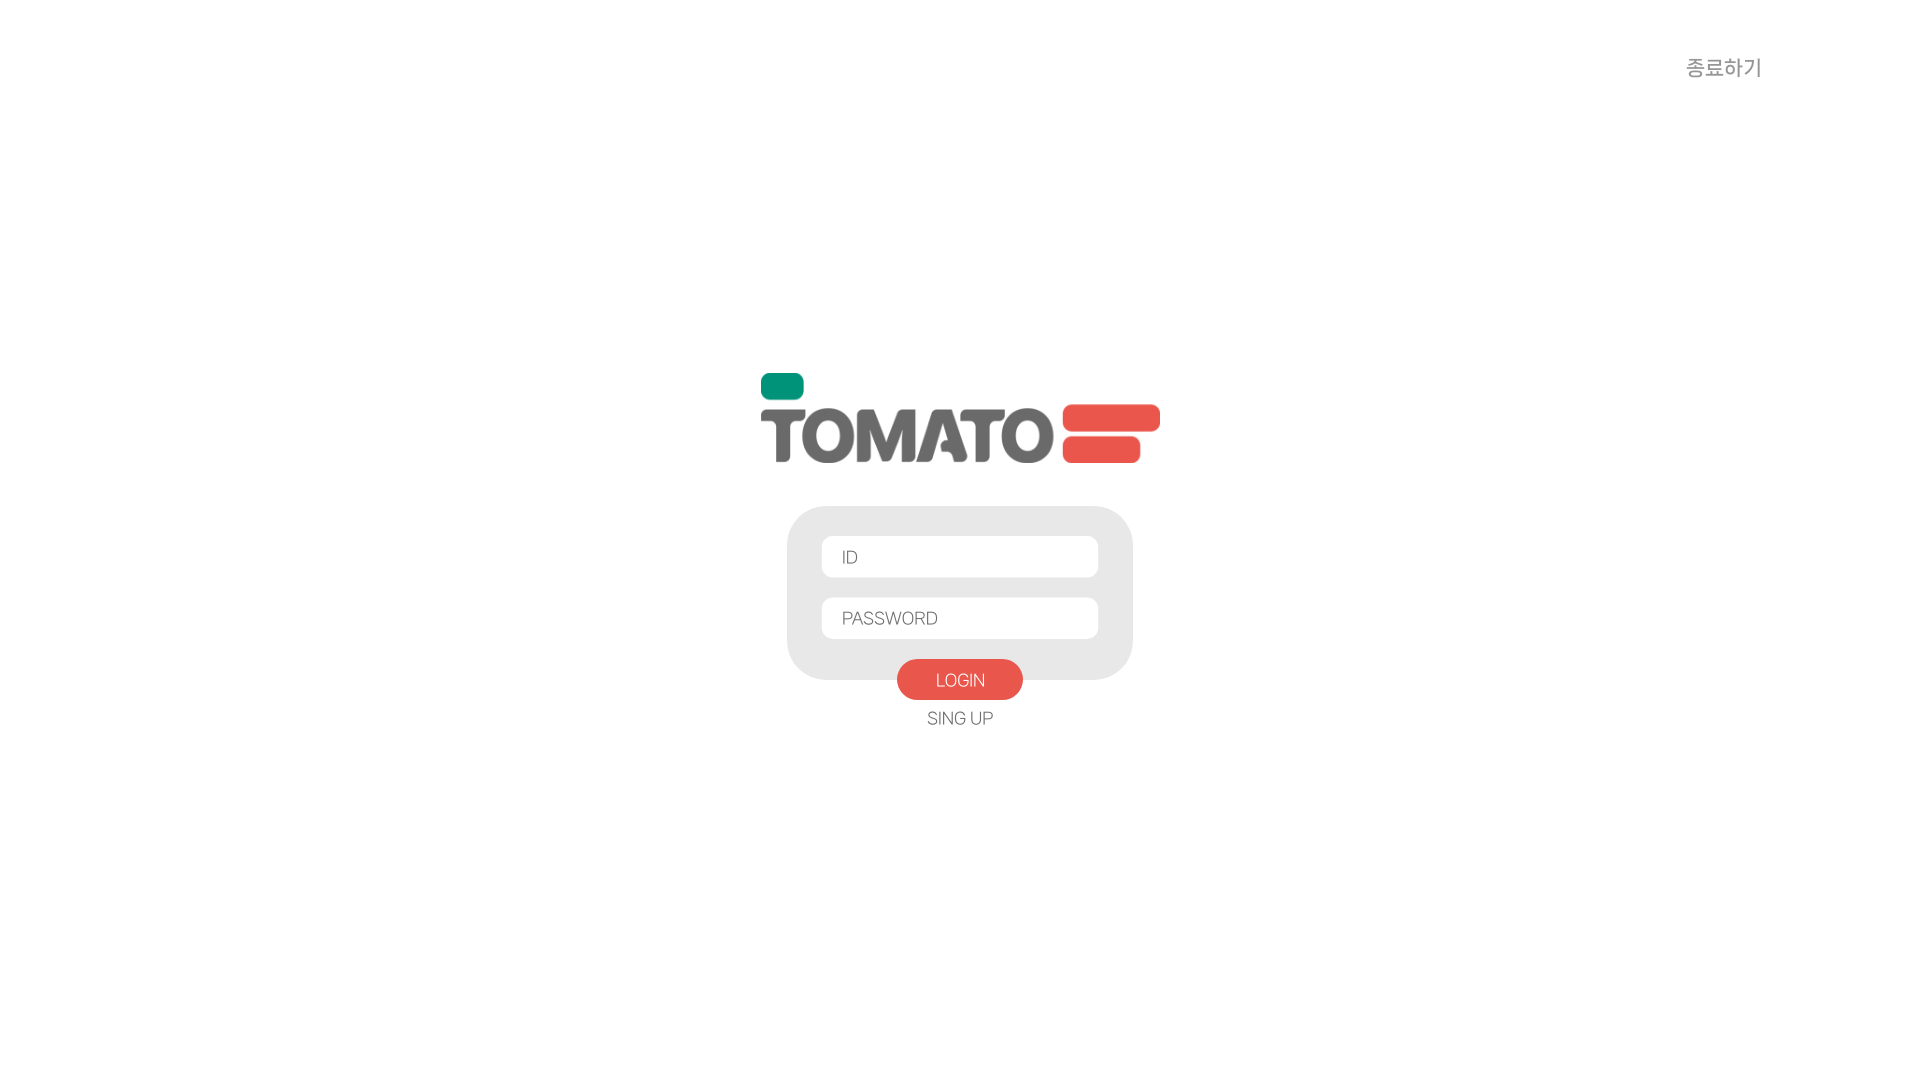
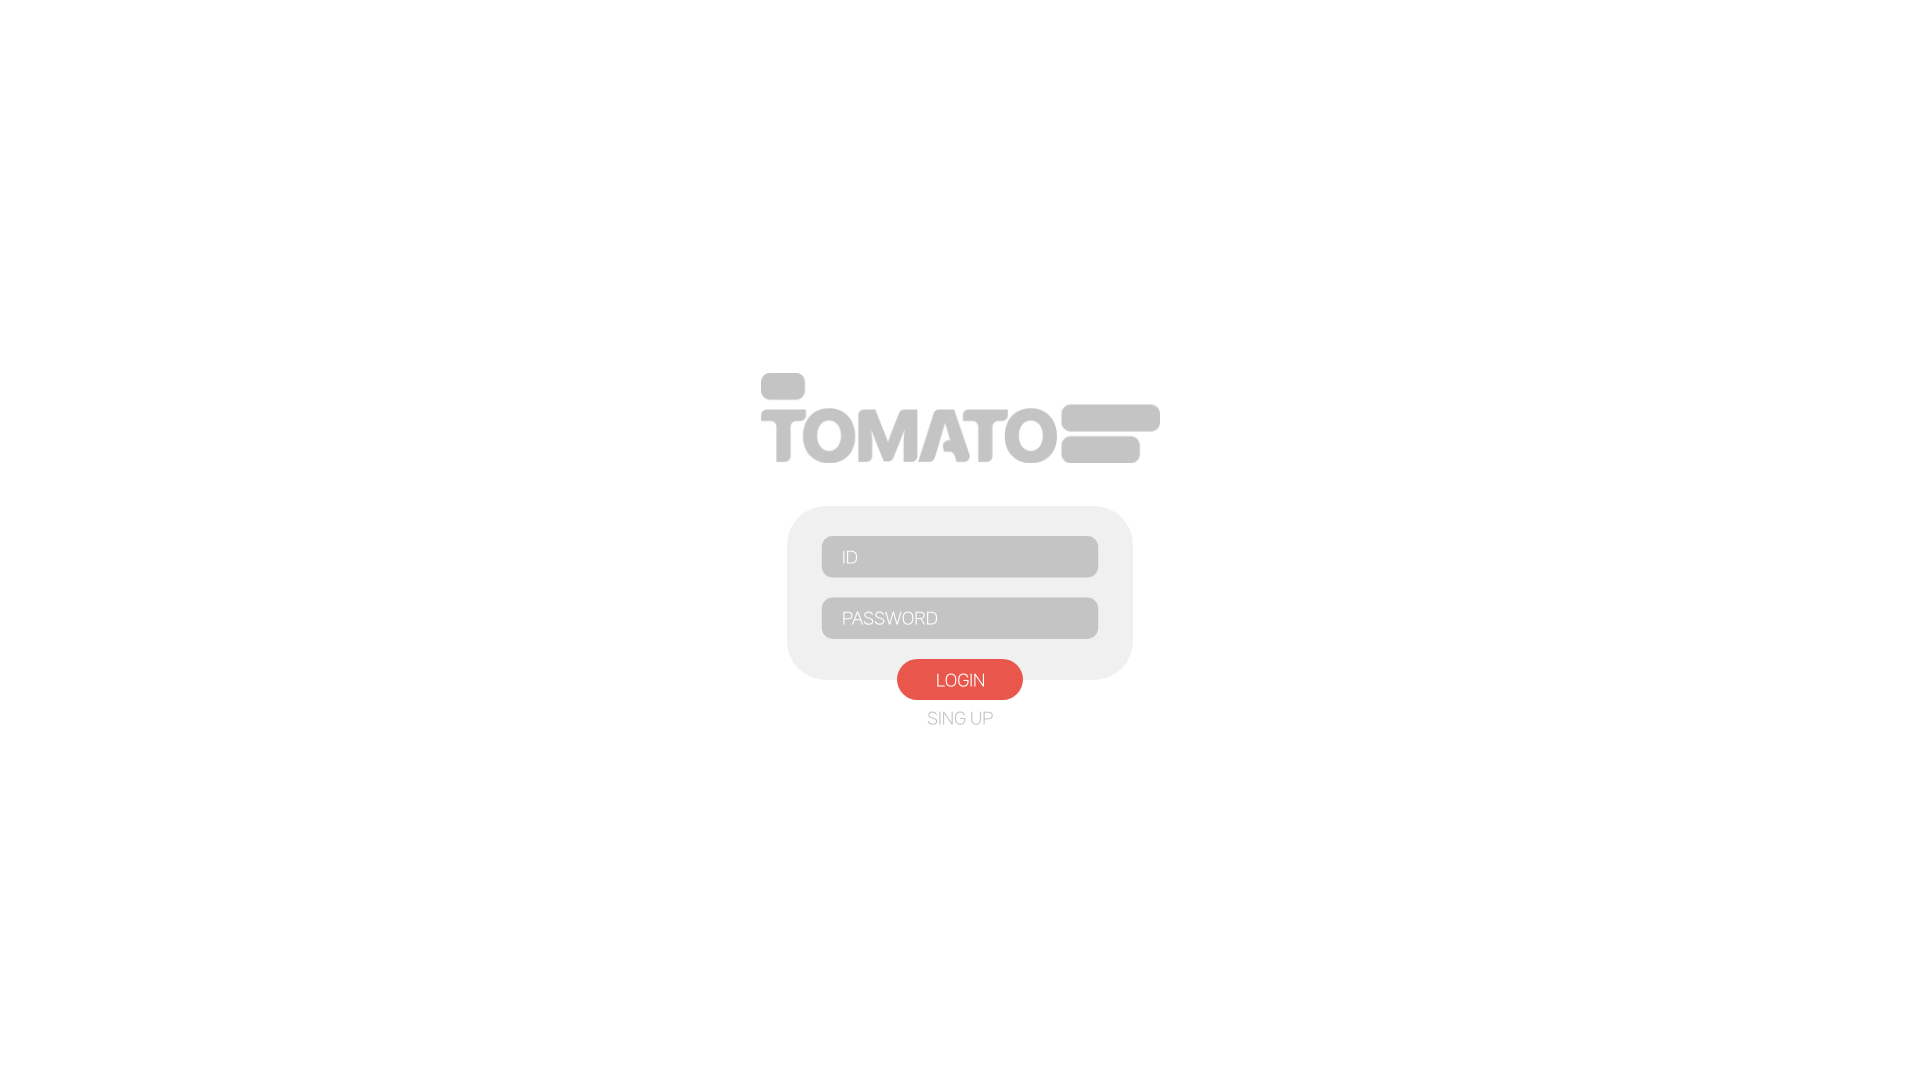
Merge branch 'master' of https://github.com/jyk7813/tomato.git 백그라운드 이미지 올렸습니다.

Changed region(s): [[0.4062, 0.4889, 0.5938, 0.6111], [0.375, 0.3361, 0.625, 0.4278], [0.875, 0.0611, 0.9062, 0.0917]]

diff --git a/tomatoPj/src/frame/MainFrame.java b/tomatoPj/src/frame/MainFrame.java
@@ -69,6 +69,7 @@ public class MainFrame extends JFrame {
         
 		Image loginImage = iconData.loginBackGround().getImage();
 		Image signImage = iconData.signUpBackGround().getImage();
+		Image projectImage = iconData.getImageIcon("selectProject(BG)").getImage();
 		
 		JPanel loginPnl = new LoginPnl(loginImage,this);
 		JPanel signUpPnl = new SignUpPnl(signImage,this);

diff --git a/tomatoPj/src/pnl/ProjectPnl.java b/tomatoPj/src/pnl/ProjectPnl.java
@@ -1,8 +1,12 @@
 package pnl;
 
+import java.awt.Image;
+
+import frame.MainFrame;
+
 public class ProjectPnl {
 
-	public ProjectPnl() {
+	public ProjectPnl(Image image, MainFrame mainFrame) {
 		
 	}
 }
